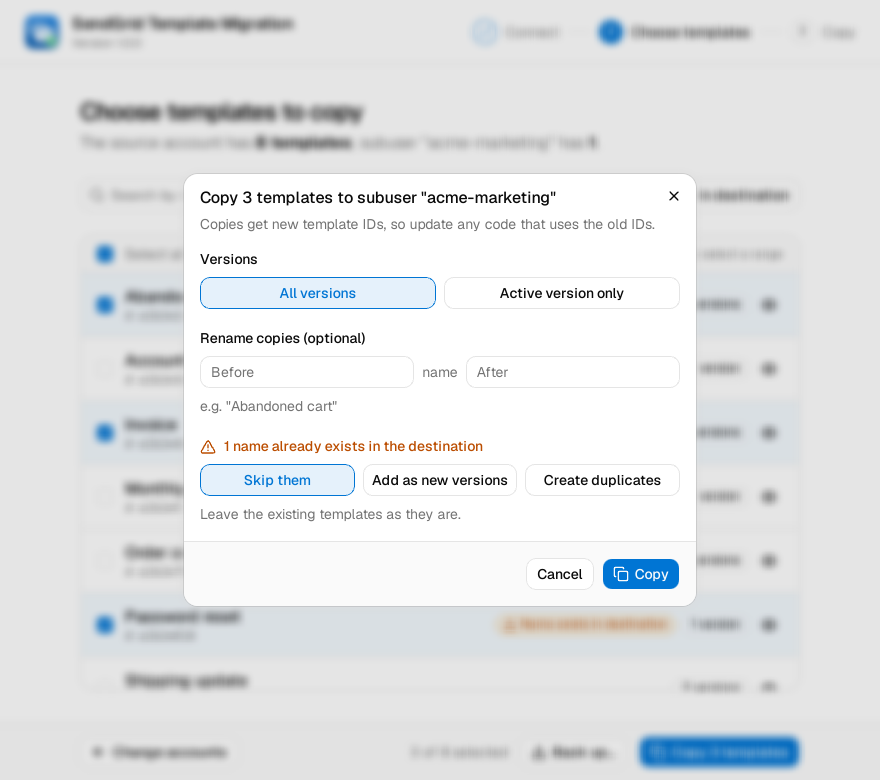
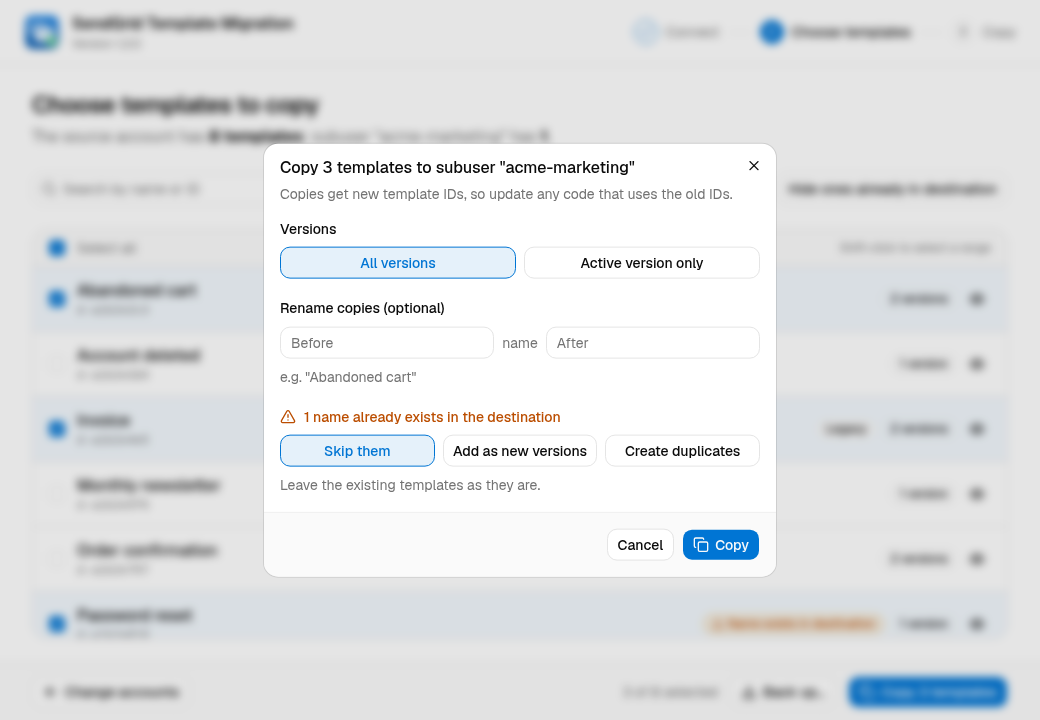
Fit the UI in the window without scrolling
- Open the window at 1040x720 (min 720x560) and widen screen content
- Connect: "Copy from" and "Copy to" side by side, data region on one
  row, and shorter mode labels, so the form fits without scrolling
- Copy: the results list sizes to its content and scrolls on its own,
  keeping the progress bar and actions in view
- VS Code: fix the dev server task never signalling ready (Vite prints
  "VITE ... ready in" on one line, and "activesBegins" was a typo), which
  stopped F5 from launching the app
- New README screenshots at the new size, plus one of the Connect screen
- CHANGELOG: 1.2.0

diff --git a/frontend/src/screens/ConnectScreen.tsx b/frontend/src/screens/ConnectScreen.tsx
@@ -27,7 +27,7 @@ import {
   CommandItem,
   CommandList,
 } from "@/components/ui/command"
-import { Field, FieldDescription, FieldGroup, FieldLabel, FieldLegend, FieldSeparator, FieldSet } from "@/components/ui/field"
+import { Field, FieldContent, FieldDescription, FieldGroup, FieldLabel, FieldLegend, FieldSeparator, FieldSet } from "@/components/ui/field"
 import { InputGroup, InputGroupAddon, InputGroupButton, InputGroupInput } from "@/components/ui/input-group"
 import { Popover, PopoverAnchor, PopoverContent } from "@/components/ui/popover"
 import { Select, SelectContent, SelectItem, SelectTrigger, SelectValue } from "@/components/ui/select"
@@ -79,15 +79,15 @@ type Props = {
 const toggleItemClass = "flex-1 data-[state=on]:border-primary data-[state=on]:bg-primary/10 data-[state=on]:text-primary"
 
 const sourceOptions: { value: SourceMode; label: string; icon: ReactNode }[] = [
-  { value: "key", label: "Account API key", icon: <KeyRoundIcon /> },
-  { value: "subuser", label: "A subuser", icon: <UsersIcon /> },
+  { value: "key", label: "API key", icon: <KeyRoundIcon /> },
+  { value: "subuser", label: "Subuser", icon: <UsersIcon /> },
   { value: "file", label: "Backup file", icon: <FileBracesIcon /> },
 ]
 
 const destOptions: Record<DestMode, { label: string; icon: ReactNode }> = {
-  key: { label: "Account API key", icon: <KeyRoundIcon /> },
-  subuser: { label: "A subuser", icon: <UsersIcon /> },
-  parent: { label: "Parent account", icon: <Building2Icon /> },
+  key: { label: "API key", icon: <KeyRoundIcon /> },
+  subuser: { label: "Subuser", icon: <UsersIcon /> },
+  parent: { label: "Parent", icon: <Building2Icon /> },
   file: { label: "Backup file", icon: <FileBracesIcon /> },
 }
 
@@ -144,10 +144,13 @@ export function ConnectScreen({ regions, conn, sourceMode, destMode, onChange, o
         <Card className="shrink-0">
           <CardContent>
             <FieldGroup>
-              <Field>
-                <FieldLabel htmlFor="region">Data region</FieldLabel>
+              <Field orientation="responsive">
+                <FieldContent>
+                  <FieldLabel htmlFor="region">Data region</FieldLabel>
+                  <FieldDescription>Both accounts must be in this region. EU accounts use the EU region.</FieldDescription>
+                </FieldContent>
                 <Select value={conn.baseURL} onValueChange={(v) => set({ baseURL: v })} disabled={busy}>
-                  <SelectTrigger id="region" className="w-full">
+                  <SelectTrigger id="region" className="@md/field-group:w-72">
                     <SelectValue />
                   </SelectTrigger>
                   <SelectContent>
@@ -158,122 +161,122 @@ export function ConnectScreen({ regions, conn, sourceMode, destMode, onChange, o
                     ))}
                   </SelectContent>
                 </Select>
-                <FieldDescription>Both accounts must be in this region. EU accounts use the EU region.</FieldDescription>
               </Field>
 
               <FieldSeparator />
 
-              <FieldSet>
-                <FieldLegend>Copy from</FieldLegend>
-                <FieldGroup>
-                  <ToggleGroup
-                    type="single"
-                    variant="outline"
-                    value={sourceMode}
-                    onValueChange={(v) => {
-                      if (!v) return
-                      const next = v as SourceMode
-                      const allowed = destModesFor(next)
-                      onModesChange(next, allowed.includes(destMode) ? destMode : allowed[0])
-                    }}
-                    disabled={busy}
-                    className="w-full"
-                    aria-label="Copy from"
-                  >
-                    {sourceOptions.map((o) => (
-                      <ToggleGroupItem key={o.value} value={o.value} className={toggleItemClass}>
-                        {o.icon} {o.label}
-                      </ToggleGroupItem>
-                    ))}
-                  </ToggleGroup>
-
-                  {sourceMode === "file" ? (
-                    <Field>
-                      <FieldLabel htmlFor="source-file">Backup file</FieldLabel>
-                      <FilePicker id="source-file" value={conn.sourceFile} onChange={(v) => set({ sourceFile: v })} disabled={busy} />
-                      <FieldDescription>A file saved with "Backup file" as the destination.</FieldDescription>
-                    </Field>
-                  ) : (
-                    <Field>
-                      <FieldLabel htmlFor="source-key">{parentKeyLabel}</FieldLabel>
-                      <SecretInput id="source-key" value={conn.sourceKey} onChange={(v) => set({ sourceKey: v })} disabled={busy} autoFocus={!conn.sourceKey} />
-                      <FieldDescription>Needs {sourceAccess} access to Template Engine.</FieldDescription>
-                    </Field>
-                  )}
-
-                  {sourceMode === "subuser" && (
-                    <Field>
-                      <FieldLabel htmlFor="source-subuser">Subuser to copy from</FieldLabel>
-                      <SubuserPicker
-                        key={conn.baseURL + conn.sourceKey}
-                        id="source-subuser"
-                        conn={conn}
-                        value={conn.sourceSubuser}
-                        onChange={(v) => set({ sourceSubuser: v })}
-                        disabled={busy}
-                      />
-                    </Field>
-                  )}
-                </FieldGroup>
-              </FieldSet>
-
-              <FieldSeparator />
-
-              <FieldSet>
-                <FieldLegend>Copy to</FieldLegend>
-                <FieldGroup>
-                  {allowedDest.length > 1 && (
+              {/* Side by side when there's room, so the whole form fits without scrolling. */}
+              <div className="grid gap-6 md:grid-cols-2 md:gap-0 md:divide-x">
+                <FieldSet className="md:pr-6">
+                  <FieldLegend>Copy from</FieldLegend>
+                  <FieldGroup>
                     <ToggleGroup
                       type="single"
                       variant="outline"
-                      value={dest}
-                      onValueChange={(v) => v && onModesChange(sourceMode, v as DestMode)}
+                      value={sourceMode}
+                      onValueChange={(v) => {
+                        if (!v) return
+                        const next = v as SourceMode
+                        const allowed = destModesFor(next)
+                        onModesChange(next, allowed.includes(destMode) ? destMode : allowed[0])
+                      }}
                       disabled={busy}
-                      className="w-full flex-wrap"
-                      aria-label="Copy to"
+                      className="w-full"
+                      aria-label="Copy from"
                     >
-                      {allowedDest.map((d) => (
-                        <ToggleGroupItem key={d} value={d} className={toggleItemClass}>
-                          {destOptions[d].icon} {destOptions[d].label}
+                      {sourceOptions.map((o) => (
+                        <ToggleGroupItem key={o.value} value={o.value} className={toggleItemClass}>
+                          {o.icon} {o.label}
                         </ToggleGroupItem>
                       ))}
                     </ToggleGroup>
-                  )}
 
-                  {dest === "key" && (
-                    <Field>
-                      <FieldLabel htmlFor="dest-key">Destination API key</FieldLabel>
-                      <SecretInput id="dest-key" value={conn.destKey} onChange={(v) => set({ destKey: v })} disabled={busy} />
-                      <FieldDescription>The destination account's own key. Needs full access to Template Engine.</FieldDescription>
-                    </Field>
-                  )}
-                  {dest === "subuser" && (
-                    <Field>
-                      <FieldLabel htmlFor="dest-subuser">Subuser to copy to</FieldLabel>
-                      <SubuserPicker
-                        key={conn.baseURL + conn.sourceKey}
-                        id="dest-subuser"
-                        conn={conn}
-                        value={conn.subuser}
-                        onChange={(v) => set({ subuser: v })}
+                    {sourceMode === "file" ? (
+                      <Field>
+                        <FieldLabel htmlFor="source-file">Backup file</FieldLabel>
+                        <FilePicker id="source-file" value={conn.sourceFile} onChange={(v) => set({ sourceFile: v })} disabled={busy} />
+                        <FieldDescription>A file saved with "Backup file" as the destination.</FieldDescription>
+                      </Field>
+                    ) : (
+                      <Field>
+                        <FieldLabel htmlFor="source-key">{parentKeyLabel}</FieldLabel>
+                        <SecretInput id="source-key" value={conn.sourceKey} onChange={(v) => set({ sourceKey: v })} disabled={busy} autoFocus={!conn.sourceKey} />
+                        <FieldDescription>Needs {sourceAccess} access to Template Engine.</FieldDescription>
+                      </Field>
+                    )}
+
+                    {sourceMode === "subuser" && (
+                      <Field>
+                        <FieldLabel htmlFor="source-subuser">Subuser to copy from</FieldLabel>
+                        <SubuserPicker
+                          key={conn.baseURL + conn.sourceKey}
+                          id="source-subuser"
+                          conn={conn}
+                          value={conn.sourceSubuser}
+                          onChange={(v) => set({ sourceSubuser: v })}
+                          disabled={busy}
+                        />
+                      </Field>
+                    )}
+                  </FieldGroup>
+                </FieldSet>
+
+                <FieldSet className="md:pl-6">
+                  <FieldLegend>Copy to</FieldLegend>
+                  <FieldGroup>
+                    {allowedDest.length > 1 && (
+                      <ToggleGroup
+                        type="single"
+                        variant="outline"
+                        value={dest}
+                        onValueChange={(v) => v && onModesChange(sourceMode, v as DestMode)}
                         disabled={busy}
-                      />
-                      <FieldDescription>The parent key acts as this subuser, so you don't need the subuser's own key.</FieldDescription>
-                    </Field>
-                  )}
-                  {dest === "parent" && (
-                    <p className="text-sm text-muted-foreground">
-                      Templates are copied to the parent account that the parent API key belongs to.
-                    </p>
-                  )}
-                  {dest === "file" && (
-                    <p className="text-sm text-muted-foreground">
-                      Choose templates next, then where to save them. The file keeps every version, and can be used as the
-                      source later, from any computer.
-                    </p>
-                  )}
-                </FieldGroup>
-              </FieldSet>
+                        className="w-full flex-wrap"
+                        aria-label="Copy to"
+                      >
+                        {allowedDest.map((d) => (
+                          <ToggleGroupItem key={d} value={d} className={toggleItemClass}>
+                            {destOptions[d].icon} {destOptions[d].label}
+                          </ToggleGroupItem>
+                        ))}
+                      </ToggleGroup>
+                    )}
+
+                    {dest === "key" && (
+                      <Field>
+                        <FieldLabel htmlFor="dest-key">Destination API key</FieldLabel>
+                        <SecretInput id="dest-key" value={conn.destKey} onChange={(v) => set({ destKey: v })} disabled={busy} />
+                        <FieldDescription>The destination account's own key. Needs full access to Template Engine.</FieldDescription>
+                      </Field>
+                    )}
+                    {dest === "subuser" && (
+                      <Field>
+                        <FieldLabel htmlFor="dest-subuser">Subuser to copy to</FieldLabel>
+                        <SubuserPicker
+                          key={conn.baseURL + conn.sourceKey}
+                          id="dest-subuser"
+                          conn={conn}
+                          value={conn.subuser}
+                          onChange={(v) => set({ subuser: v })}
+                          disabled={busy}
+                        />
+                        <FieldDescription>The parent key acts as this subuser, so you don't need the subuser's own key.</FieldDescription>
+                      </Field>
+                    )}
+                    {dest === "parent" && (
+                      <p className="text-sm text-muted-foreground">
+                        Templates are copied to the parent account that the parent API key belongs to.
+                      </p>
+                    )}
+                    {dest === "file" && (
+                      <p className="text-sm text-muted-foreground">
+                        Choose templates next, then where to save them. The file keeps every version, and can be used as the
+                        source later, from any computer.
+                      </p>
+                    )}
+                  </FieldGroup>
+                </FieldSet>
+              </div>
             </FieldGroup>
           </CardContent>
         </Card>

diff --git a/frontend/src/screens/layout.tsx b/frontend/src/screens/layout.tsx
@@ -5,10 +5,10 @@ export function Screen({ children, actions }: { children: ReactNode; actions: Re
   return (
     <div className="flex h-full flex-col">
       <div className="min-h-0 flex-1 overflow-y-auto">
-        <div className="mx-auto flex h-full max-w-3xl flex-col gap-6 px-6 py-8">{children}</div>
+        <div className="mx-auto flex h-full max-w-5xl flex-col gap-6 px-6 py-6">{children}</div>
       </div>
       <footer className="border-t bg-muted/30">
-        <div className="mx-auto flex max-w-3xl items-center gap-3 px-6 py-3">{actions}</div>
+        <div className="mx-auto flex max-w-5xl items-center gap-3 px-6 py-3">{actions}</div>
       </footer>
     </div>
   )

diff --git a/frontend/src/screens/CopyScreen.tsx b/frontend/src/screens/CopyScreen.tsx
@@ -229,7 +229,7 @@ export function CopyScreen({ job, onFinished, onCopyMore, onRetry, onStartOver, 
         {fatal && <p className="text-sm text-destructive">{fatal}</p>}
       </div>
 
-      <ul className="divide-y rounded-xl border">
+      <ul className="min-h-16 divide-y overflow-y-auto rounded-xl border">
         {job.ids.map((id, i) => (
           <ResultRow
             key={id}

diff --git a/app.go b/app.go
@@ -65,10 +65,10 @@ func runApp(ctx context.Context, conn Connection) error {
 
 	app.Window.NewWithOptions(application.WebviewWindowOptions{
 		Title:     appTitle,
-		Width:     880,
-		Height:    700,
-		MinWidth:  640,
-		MinHeight: 520,
+		Width:     1040,
+		Height:    720,
+		MinWidth:  720,
+		MinHeight: 560,
 		URL:       "/",
 	})
 

diff --git a/README.md b/README.md
@@ -35,12 +35,14 @@ Open the app from your app launcher, Start menu or Applications folder. It walks
 
    | Copy from | Copy to |
    | --- | --- |
-   | **Account API key:** any account's key, usually the parent's. Needs read access to Template Engine. | **Account API key:** the destination account's own key, with full access to Template Engine. |
-   | **A subuser:** the parent key acting as one of its subusers (SendGrid's `on-behalf-of`). | **A subuser:** the parent key acting as the subuser, so you don't need the subuser's own key. The parent key needs full access to Template Engine. |
-   | **Backup file:** a file saved earlier by this app. | **Parent account:** when copying from a subuser, back to the parent the key belongs to. |
+   | **API key:** any account's key, usually the parent's. Needs read access to Template Engine. | **API key:** the destination account's own key, with full access to Template Engine. |
+   | **Subuser:** the parent key acting as one of its subusers (SendGrid's `on-behalf-of`). | **Subuser:** the parent key acting as the subuser, so you don't need the subuser's own key. The parent key needs full access to Template Engine. |
+   | **Backup file:** a file saved earlier by this app. | **Parent:** when copying from a subuser, back to the parent the key belongs to. |
    | | **Backup file:** save the templates to a file instead of copying them. |
 
    **Find** lists the parent's active subusers to pick from (needs read access to Subuser Management). Both sides are checked before you continue. Keys are never saved.
+
+   ![Connect screen](assets/screenshot-connect.png)
 2. **Choose templates:** search, filter by type, hide templates that are already in the destination, and click the eye icon to preview a template. Shift-click selects a range. Templates whose name already exists in the destination are flagged. **Back up…** saves the selected templates to a file.
 
    **Copy** then asks how to copy them:

diff --git a/CHANGELOG.md b/CHANGELOG.md
@@ -10,6 +10,18 @@ leave out any that are empty: Added, Changed, Fixed, Removed, Security.
 
 ## [Unreleased]
 
+## [1.2.0] - 2026-10-29
+
+### Changed
+
+- The window opens larger (1040×720), and the Connect screen shows "Copy
+  from" and "Copy to" side by side, so everything fits without scrolling.
+- Only long lists scroll: the copy results list now scrolls on its own,
+  keeping the progress bar and actions in view.
+- Shorter labels on the source and destination buttons ("API key",
+  "Subuser", "Parent").
+- New README screenshots, including the Connect screen.
+
 ## [1.1.2] - 2026-10-29
 
 ### Fixed
@@ -64,7 +76,8 @@ leave out any that are empty: Added, Changed, Fixed, Removed, Security.
 - Command-line mode (`-template`) for scripted copies.
 - Rate-limit retries and plain-language error messages.
 
-[Unreleased]: https://github.com/scg-mitra/sendgrid-template-migration/compare/v1.1.2...HEAD
+[Unreleased]: https://github.com/scg-mitra/sendgrid-template-migration/compare/v1.2.0...HEAD
+[1.2.0]: https://github.com/scg-mitra/sendgrid-template-migration/compare/v1.1.2...v1.2.0
 [1.1.2]: https://github.com/scg-mitra/sendgrid-template-migration/compare/v1.1.1...v1.1.2
 [1.1.1]: https://github.com/scg-mitra/sendgrid-template-migration/compare/v1.1.0...v1.1.1
 [1.1.0]: https://github.com/scg-mitra/sendgrid-template-migration/compare/v1.0.0...v1.1.0
